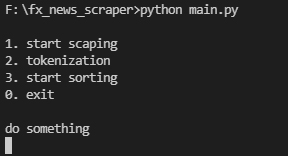
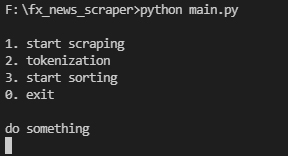
Add files via upload

Changed region(s): [[0.2812, 0.2308, 0.4375, 0.3333]]

diff --git a/main.py b/main.py
@@ -4,7 +4,7 @@ import app.news_sort
 
 def start():
     while True:
-        usr_in = input('\n1. start scaping\n2. tokenization\n3. start sorting\n0. exit\n\ndo something\n')
+        usr_in = input('\n1. start scraping\n2. tokenization\n3. start sorting\n0. exit\n\ndo something\n')
         if usr_in == '1':
             print ('\n-->start scraping ...\n')
             news_scraper = app.scraper.fx_news_scraper()
